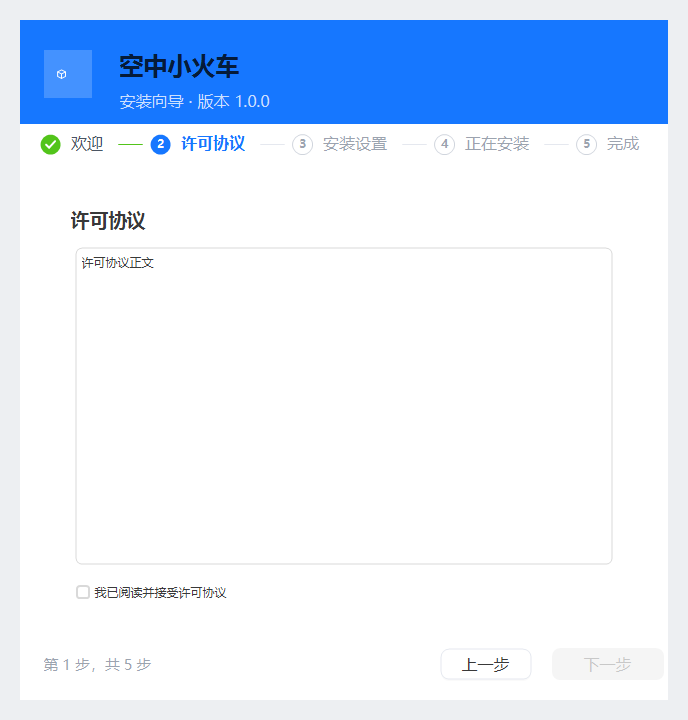
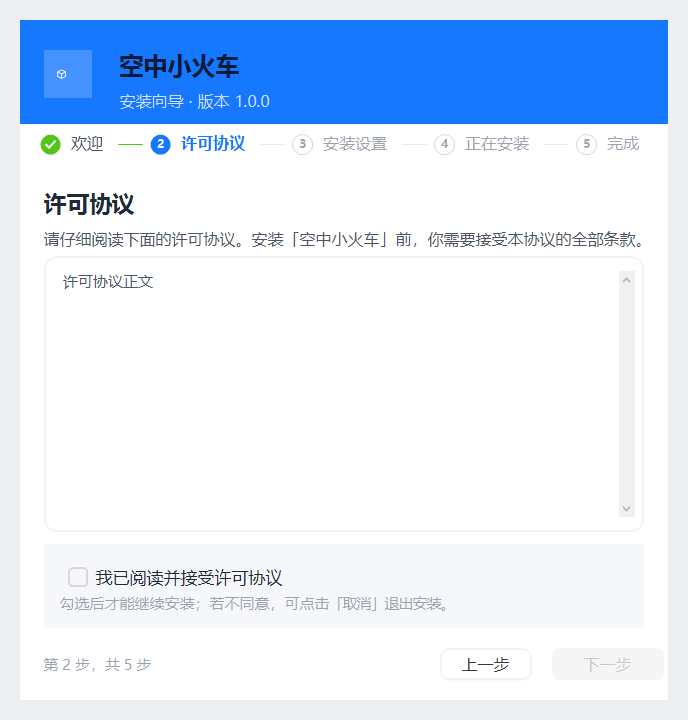
安装向导重构 阶段3（2/8）：许可协议页按设计稿重做
LicenseView 结构
  标题 17F Bold
  副标题 12F（「请仔细阅读下面的许可协议。安装「xxx」前…」）
  描边卡片（1px #E5E8EF，radius 12）内含可滚动正文
  浅灰勾选行 #F5F7FA（radius 12）：复选框 13F + 灰色提示 11F

正文从 AntdUI.Input 换成标准 TextBox（Multiline + ReadOnly + 垂直滚动条 +
BorderStyle=None）—— 协议正文需要滚动，Input 不支持多行滚动。

新增 API：Subtitle / AcceptHint / ApplyAccent
新增文案：License.Subtitle / License.AcceptHint / Wizard.StepInfo

顺带修掉一个一直存在的问题
  底栏的「第 N 步，共 M 步」从来没被赋值过 —— lblStepInfo 一直是 Designer 里的
  占位文字「第 1 步，共 5 步」，所以在任何页面都显示第 1 步。
  现在按 StepIndex + 1 动态刷新（StepIndex 是 0 起的）。

验收：构建 0 警告、单元测试 182/182、check-designer 通过

剩余 6 页：安装设置 / 正在安装 / 安装完成 + 确认卸载 / 正在卸载 / 卸载完成。

diff --git a/src/Installer.UI/Views/LicenseView.Designer.cs b/src/Installer.UI/Views/LicenseView.Designer.cs
@@ -20,7 +20,7 @@ namespace Installer.UI.Views
             base.Dispose(disposing);
         }
 
-        #region 组件设计器生成的代码
+        #region Component Designer generated code
 
         /// <summary>
         /// 设计器支持所需的方法 - 不要修改
@@ -30,9 +30,17 @@ namespace Installer.UI.Views
         {
             this.rootLayout = new System.Windows.Forms.TableLayoutPanel();
             this.lblTitle = new AntdUI.Label();
-            this.txtLicense = new AntdUI.Input();
+            this.lblSubtitle = new AntdUI.Label();
+            this.licenseCard = new AntdUI.Panel();
+            this.txtLicense = new System.Windows.Forms.TextBox();
+            this.acceptPanel = new AntdUI.Panel();
+            this.acceptLayout = new System.Windows.Forms.TableLayoutPanel();
             this.chkAccept = new AntdUI.Checkbox();
+            this.lblAcceptHint = new AntdUI.Label();
             this.rootLayout.SuspendLayout();
+            this.licenseCard.SuspendLayout();
+            this.acceptPanel.SuspendLayout();
+            this.acceptLayout.SuspendLayout();
             this.SuspendLayout();
             //
             // rootLayout
@@ -40,16 +48,17 @@ namespace Installer.UI.Views
             this.rootLayout.ColumnCount = 1;
             this.rootLayout.ColumnStyles.Add(new System.Windows.Forms.ColumnStyle(System.Windows.Forms.SizeType.Percent, 100F));
             this.rootLayout.Controls.Add(this.lblTitle, 0, 0);
-            this.rootLayout.Controls.Add(this.txtLicense, 0, 1);
-            this.rootLayout.Controls.Add(this.chkAccept, 0, 2);
+            this.rootLayout.Controls.Add(this.lblSubtitle, 0, 1);
+            this.rootLayout.Controls.Add(this.licenseCard, 0, 2);
+            this.rootLayout.Controls.Add(this.acceptPanel, 0, 3);
             this.rootLayout.Dock = System.Windows.Forms.DockStyle.Fill;
             this.rootLayout.Location = new System.Drawing.Point(0, 0);
             this.rootLayout.Name = "rootLayout";
-            this.rootLayout.Padding = new System.Windows.Forms.Padding(24, 16, 24, 16);
-            this.rootLayout.RowCount = 3;
-            this.rootLayout.RowStyles.Add(new System.Windows.Forms.RowStyle(System.Windows.Forms.SizeType.Absolute, 40F));
+            this.rootLayout.RowCount = 4;
+            this.rootLayout.RowStyles.Add(new System.Windows.Forms.RowStyle(System.Windows.Forms.SizeType.Absolute, 38F));
+            this.rootLayout.RowStyles.Add(new System.Windows.Forms.RowStyle(System.Windows.Forms.SizeType.Absolute, 34F));
             this.rootLayout.RowStyles.Add(new System.Windows.Forms.RowStyle(System.Windows.Forms.SizeType.Percent, 100F));
-            this.rootLayout.RowStyles.Add(new System.Windows.Forms.RowStyle(System.Windows.Forms.SizeType.Absolute, 40F));
+            this.rootLayout.RowStyles.Add(new System.Windows.Forms.RowStyle(System.Windows.Forms.SizeType.Absolute, 84F));
             this.rootLayout.Size = new System.Drawing.Size(600, 400);
             this.rootLayout.TabIndex = 0;
             //
@@ -57,46 +66,126 @@ namespace Installer.UI.Views
             //
             this.lblTitle.Anchor = System.Windows.Forms.AnchorStyles.Left;
             this.lblTitle.AutoSize = true;
-            this.lblTitle.Font = new System.Drawing.Font("微软雅黑", 14F, System.Drawing.FontStyle.Bold);
-            this.lblTitle.Location = new System.Drawing.Point(27, 20);
+            this.lblTitle.Font = new System.Drawing.Font("微软雅黑", 17F, System.Drawing.FontStyle.Bold);
+            this.lblTitle.Location = new System.Drawing.Point(0, 0);
+            this.lblTitle.Margin = new System.Windows.Forms.Padding(0);
             this.lblTitle.Name = "lblTitle";
-            this.lblTitle.Size = new System.Drawing.Size(100, 25);
+            this.lblTitle.Size = new System.Drawing.Size(200, 30);
             this.lblTitle.TabIndex = 0;
             this.lblTitle.Text = "许可协议";
             //
+            // lblSubtitle
+            //
+            this.lblSubtitle.Anchor = System.Windows.Forms.AnchorStyles.Left;
+            this.lblSubtitle.AutoSize = true;
+            this.lblSubtitle.Font = new System.Drawing.Font("微软雅黑", 12F);
+            this.lblSubtitle.Location = new System.Drawing.Point(0, 42);
+            this.lblSubtitle.Margin = new System.Windows.Forms.Padding(0);
+            this.lblSubtitle.Name = "lblSubtitle";
+            this.lblSubtitle.Size = new System.Drawing.Size(400, 21);
+            this.lblSubtitle.TabIndex = 1;
+            this.lblSubtitle.Text = "";
+            //
+            // licenseCard
+            //
+            this.licenseCard.BorderColor = System.Drawing.Color.FromArgb(((int)(((byte)(229)))), ((int)(((byte)(232)))), ((int)(((byte)(239)))));
+            this.licenseCard.BorderWidth = 1F;
+            this.licenseCard.Controls.Add(this.txtLicense);
+            this.licenseCard.Dock = System.Windows.Forms.DockStyle.Fill;
+            this.licenseCard.Location = new System.Drawing.Point(0, 72);
+            this.licenseCard.Margin = new System.Windows.Forms.Padding(0, 0, 0, 12);
+            this.licenseCard.Name = "licenseCard";
+            this.licenseCard.Padding = new System.Windows.Forms.Padding(16, 14, 8, 14);
+            this.licenseCard.Radius = 12;
+            this.licenseCard.Size = new System.Drawing.Size(600, 232);
+            this.licenseCard.TabIndex = 2;
+            //
             // txtLicense
             //
+            this.txtLicense.BackColor = System.Drawing.Color.White;
+            this.txtLicense.BorderStyle = System.Windows.Forms.BorderStyle.None;
             this.txtLicense.Dock = System.Windows.Forms.DockStyle.Fill;
-            this.txtLicense.Font = new System.Drawing.Font("微软雅黑", 9F);
-            this.txtLicense.Location = new System.Drawing.Point(27, 59);
+            this.txtLicense.Font = new System.Drawing.Font("微软雅黑", 11F);
+            this.txtLicense.ForeColor = System.Drawing.Color.FromArgb(((int)(((byte)(75)))), ((int)(((byte)(85)))), ((int)(((byte)(99)))));
+            this.txtLicense.Location = new System.Drawing.Point(16, 14);
             this.txtLicense.Multiline = true;
             this.txtLicense.Name = "txtLicense";
             this.txtLicense.ReadOnly = true;
-            this.txtLicense.Size = new System.Drawing.Size(546, 282);
-            this.txtLicense.TabIndex = 1;
+            this.txtLicense.ScrollBars = System.Windows.Forms.ScrollBars.Vertical;
+            this.txtLicense.Size = new System.Drawing.Size(576, 204);
+            this.txtLicense.TabIndex = 0;
+            this.txtLicense.WordWrap = true;
+            //
+            // acceptPanel
+            //
+            this.acceptPanel.Controls.Add(this.acceptLayout);
+            this.acceptPanel.Dock = System.Windows.Forms.DockStyle.Fill;
+            this.acceptPanel.Location = new System.Drawing.Point(0, 316);
+            this.acceptPanel.Margin = new System.Windows.Forms.Padding(0);
+            this.acceptPanel.Name = "acceptPanel";
+            this.acceptPanel.Padding = new System.Windows.Forms.Padding(16, 10, 16, 10);
+            this.acceptPanel.Radius = 12;
+            this.acceptPanel.Size = new System.Drawing.Size(600, 84);
+            this.acceptPanel.TabIndex = 3;
+            //
+            // acceptLayout
+            //
+            this.acceptLayout.ColumnCount = 1;
+            this.acceptLayout.ColumnStyles.Add(new System.Windows.Forms.ColumnStyle(System.Windows.Forms.SizeType.Percent, 100F));
+            this.acceptLayout.Controls.Add(this.chkAccept, 0, 0);
+            this.acceptLayout.Controls.Add(this.lblAcceptHint, 0, 1);
+            this.acceptLayout.Dock = System.Windows.Forms.DockStyle.Fill;
+            this.acceptLayout.Location = new System.Drawing.Point(16, 10);
+            this.acceptLayout.Margin = new System.Windows.Forms.Padding(0);
+            this.acceptLayout.Name = "acceptLayout";
+            this.acceptLayout.RowCount = 2;
+            this.acceptLayout.RowStyles.Add(new System.Windows.Forms.RowStyle(System.Windows.Forms.SizeType.Absolute, 34F));
+            this.acceptLayout.RowStyles.Add(new System.Windows.Forms.RowStyle(System.Windows.Forms.SizeType.Percent, 100F));
+            this.acceptLayout.Size = new System.Drawing.Size(568, 64);
+            this.acceptLayout.TabIndex = 0;
             //
             // chkAccept
             //
             this.chkAccept.Anchor = System.Windows.Forms.AnchorStyles.Left;
             this.chkAccept.AutoSize = true;
-            this.chkAccept.Font = new System.Drawing.Font("微软雅黑", 9F);
-            this.chkAccept.Location = new System.Drawing.Point(27, 352);
+            this.chkAccept.Font = new System.Drawing.Font("微软雅黑", 13F);
+            this.chkAccept.ForeColor = System.Drawing.Color.FromArgb(((int)(((byte)(31)))), ((int)(((byte)(41)))), ((int)(((byte)(55)))));
+            this.chkAccept.Location = new System.Drawing.Point(0, 3);
+            this.chkAccept.Margin = new System.Windows.Forms.Padding(0);
             this.chkAccept.Name = "chkAccept";
-            this.chkAccept.Size = new System.Drawing.Size(200, 23);
-            this.chkAccept.TabIndex = 2;
-            this.chkAccept.Text = "我已阅读并接受许可协议";
+            this.chkAccept.Size = new System.Drawing.Size(300, 28);
+            this.chkAccept.TabIndex = 0;
+            this.chkAccept.Text = "我已阅读并同意许可协议";
+            //
+            // lblAcceptHint
+            //
+            this.lblAcceptHint.Anchor = System.Windows.Forms.AnchorStyles.Left;
+            this.lblAcceptHint.AutoSize = true;
+            this.lblAcceptHint.Font = new System.Drawing.Font("微软雅黑", 11F);
+            this.lblAcceptHint.ForeColor = System.Drawing.Color.FromArgb(((int)(((byte)(156)))), ((int)(((byte)(163)))), ((int)(((byte)(175)))));
+            this.lblAcceptHint.Location = new System.Drawing.Point(0, 36);
+            this.lblAcceptHint.Margin = new System.Windows.Forms.Padding(0);
+            this.lblAcceptHint.Name = "lblAcceptHint";
+            this.lblAcceptHint.Size = new System.Drawing.Size(400, 19);
+            this.lblAcceptHint.TabIndex = 1;
+            this.lblAcceptHint.Text = "";
             //
             // LicenseView
             //
             this.AutoScaleDimensions = new System.Drawing.SizeF(7F, 17F);
             this.AutoScaleMode = System.Windows.Forms.AutoScaleMode.Font;
-            this.BackColor = System.Drawing.Color.Transparent;
+            this.BackColor = System.Drawing.Color.White;
             this.Controls.Add(this.rootLayout);
-            this.Font = new System.Drawing.Font("微软雅黑", 9F);
+            this.Font = new System.Drawing.Font("微软雅黑", 12F);
             this.Name = "LicenseView";
             this.Size = new System.Drawing.Size(600, 400);
             this.rootLayout.ResumeLayout(false);
             this.rootLayout.PerformLayout();
+            this.licenseCard.ResumeLayout(false);
+            this.licenseCard.PerformLayout();
+            this.acceptPanel.ResumeLayout(false);
+            this.acceptLayout.ResumeLayout(false);
+            this.acceptLayout.PerformLayout();
             this.ResumeLayout(false);
         }
 
@@ -104,7 +193,12 @@ namespace Installer.UI.Views
 
         private System.Windows.Forms.TableLayoutPanel rootLayout;
         private AntdUI.Label lblTitle;
-        private AntdUI.Input txtLicense;
+        private AntdUI.Label lblSubtitle;
+        private AntdUI.Panel licenseCard;
+        private System.Windows.Forms.TextBox txtLicense;
+        private AntdUI.Panel acceptPanel;
+        private System.Windows.Forms.TableLayoutPanel acceptLayout;
         private AntdUI.Checkbox chkAccept;
+        private AntdUI.Label lblAcceptHint;
     }
 }

diff --git a/src/Installer.UI/Views/LicenseView.cs b/src/Installer.UI/Views/LicenseView.cs
@@ -1,9 +1,16 @@
 using System;
+using System.Drawing;
 using System.Windows.Forms;
+using Installer.UI.Common;
 
 namespace Installer.UI.Views
 {
-    /// <summary>许可协议页。</summary>
+    /// <summary>
+    /// 许可协议页（设计稿第 2 步）。
+    ///
+    /// 结构：标题 + 副标题 + 描边卡片（内含可滚动正文）+ 浅灰勾选行（复选框 + 提示）。
+    /// 未勾选时由 Presenter 让「下一步」保持禁用。
+    /// </summary>
     public partial class LicenseView : UserControl
     {
         /// <summary>构造。</summary>
@@ -11,6 +18,7 @@ namespace Installer.UI.Views
         {
             InitializeComponent();
             HookEvents();
+            ApplyAccent(WizardTheme.Primary);
         }
 
         /// <summary>标题。</summary>
@@ -18,6 +26,13 @@ namespace Installer.UI.Views
         {
             get { return lblTitle.Text; }
             set { lblTitle.Text = value; }
+        }
+
+        /// <summary>副标题。</summary>
+        public string Subtitle
+        {
+            get { return lblSubtitle.Text; }
+            set { lblSubtitle.Text = value; }
         }
 
         /// <summary>协议正文。</summary>
@@ -34,6 +49,13 @@ namespace Installer.UI.Views
             set { chkAccept.Text = value; }
         }
 
+        /// <summary>勾选行下方的灰色提示。</summary>
+        public string AcceptHint
+        {
+            get { return lblAcceptHint.Text; }
+            set { lblAcceptHint.Text = value ?? string.Empty; }
+        }
+
         /// <summary>是否已接受。</summary>
         public bool Accepted
         {
@@ -43,6 +65,16 @@ namespace Installer.UI.Views
 
         /// <summary>接受状态变化。参数为新的接受状态。</summary>
         public event Action<bool> AcceptedChanged;
+
+        /// <summary>设置主色（安装 = 蓝，卸载 = 红）。</summary>
+        public void ApplyAccent(Color accent)
+        {
+            acceptPanel.Back = WizardTheme.SoftBack;
+            acceptPanel.BackColor = WizardTheme.SoftBack;
+
+            lblTitle.ForeColor = WizardTheme.TextTitle;
+            lblSubtitle.ForeColor = WizardTheme.TextBody;
+        }
 
         /// <summary>由构造函数挂接（Designer 里只订阅 WinForms 认得的事件）。</summary>
         private void HookEvents()

diff --git a/src/Installer.UI/Forms/WizardForm.cs b/src/Installer.UI/Forms/WizardForm.cs
@@ -256,7 +256,11 @@ namespace Installer.UI.Forms
                 case WizardPage.License:
                     ShowView(_licenseView);
                     _licenseView.Title = _presenter.Text("License.Title");
+                    _licenseView.Subtitle = string.Format(
+                        System.Globalization.CultureInfo.CurrentCulture,
+                        _presenter.Text("License.Subtitle"), _presenter.ProductName);
                     _licenseView.AcceptText = _presenter.Text("License.Accept");
+                    _licenseView.AcceptHint = _presenter.Text("License.AcceptHint");
                     _licenseView.LicenseText = _presenter.LicenseText;
                     _licenseView.Accepted = _presenter.Options.AcceptLicense;
                     break;
@@ -401,6 +405,17 @@ namespace Installer.UI.Forms
             if (_presenter.ShowSteps)
             {
                 stepBar.Current = Math.Min(_presenter.StepIndex, Math.Max(0, stepBar.Steps.Length - 1));
+
+                // 底栏左侧「第 N 步，共 M 步」。StepIndex 是 0 起的，显示要 +1。
+                lblStepInfo.Text = string.Format(
+                    System.Globalization.CultureInfo.CurrentCulture,
+                    _presenter.Text("Wizard.StepInfo"),
+                    _presenter.StepIndex + 1,
+                    stepBar.Steps.Length);
+            }
+            else
+            {
+                lblStepInfo.Text = string.Empty;
             }
 
             // 安装中：主按钮变成"取消"，用 Error 色提示

diff --git a/src/Installer.UI/Common/WizardStrings.cs b/src/Installer.UI/Common/WizardStrings.cs
@@ -31,7 +31,12 @@ namespace Installer.UI.Common
             Add(t, "Wizard.Close", "关闭", "Close");
             Add(t, "Wizard.Retry", "重试", "Retry");
 
+            Add(t, "Wizard.StepInfo", "第 {0} 步，共 {1} 步", "Step {0} of {1}");
             Add(t, "Wizard.StepWelcome", "欢迎", "Welcome");
+            Add(t, "License.Subtitle", "请仔细阅读下面的许可协议。安装「{0}」前，你需要接受本协议的全部条款。",
+                "Please read the license agreement below. You must accept it before installing {0}.");
+            Add(t, "License.AcceptHint", "勾选后才能继续安装；若不同意，可点击「取消」退出安装。",
+                "You must accept to continue. Click Cancel to exit without installing.");
             Add(t, "Welcome.CaptionDir", "默认安装位置", "Default location");
             Add(t, "Welcome.CaptionSpace", "需要磁盘空间", "Disk space required");
             Add(t, "Welcome.CaptionVersion", "版本与发布者", "Version & publisher");
